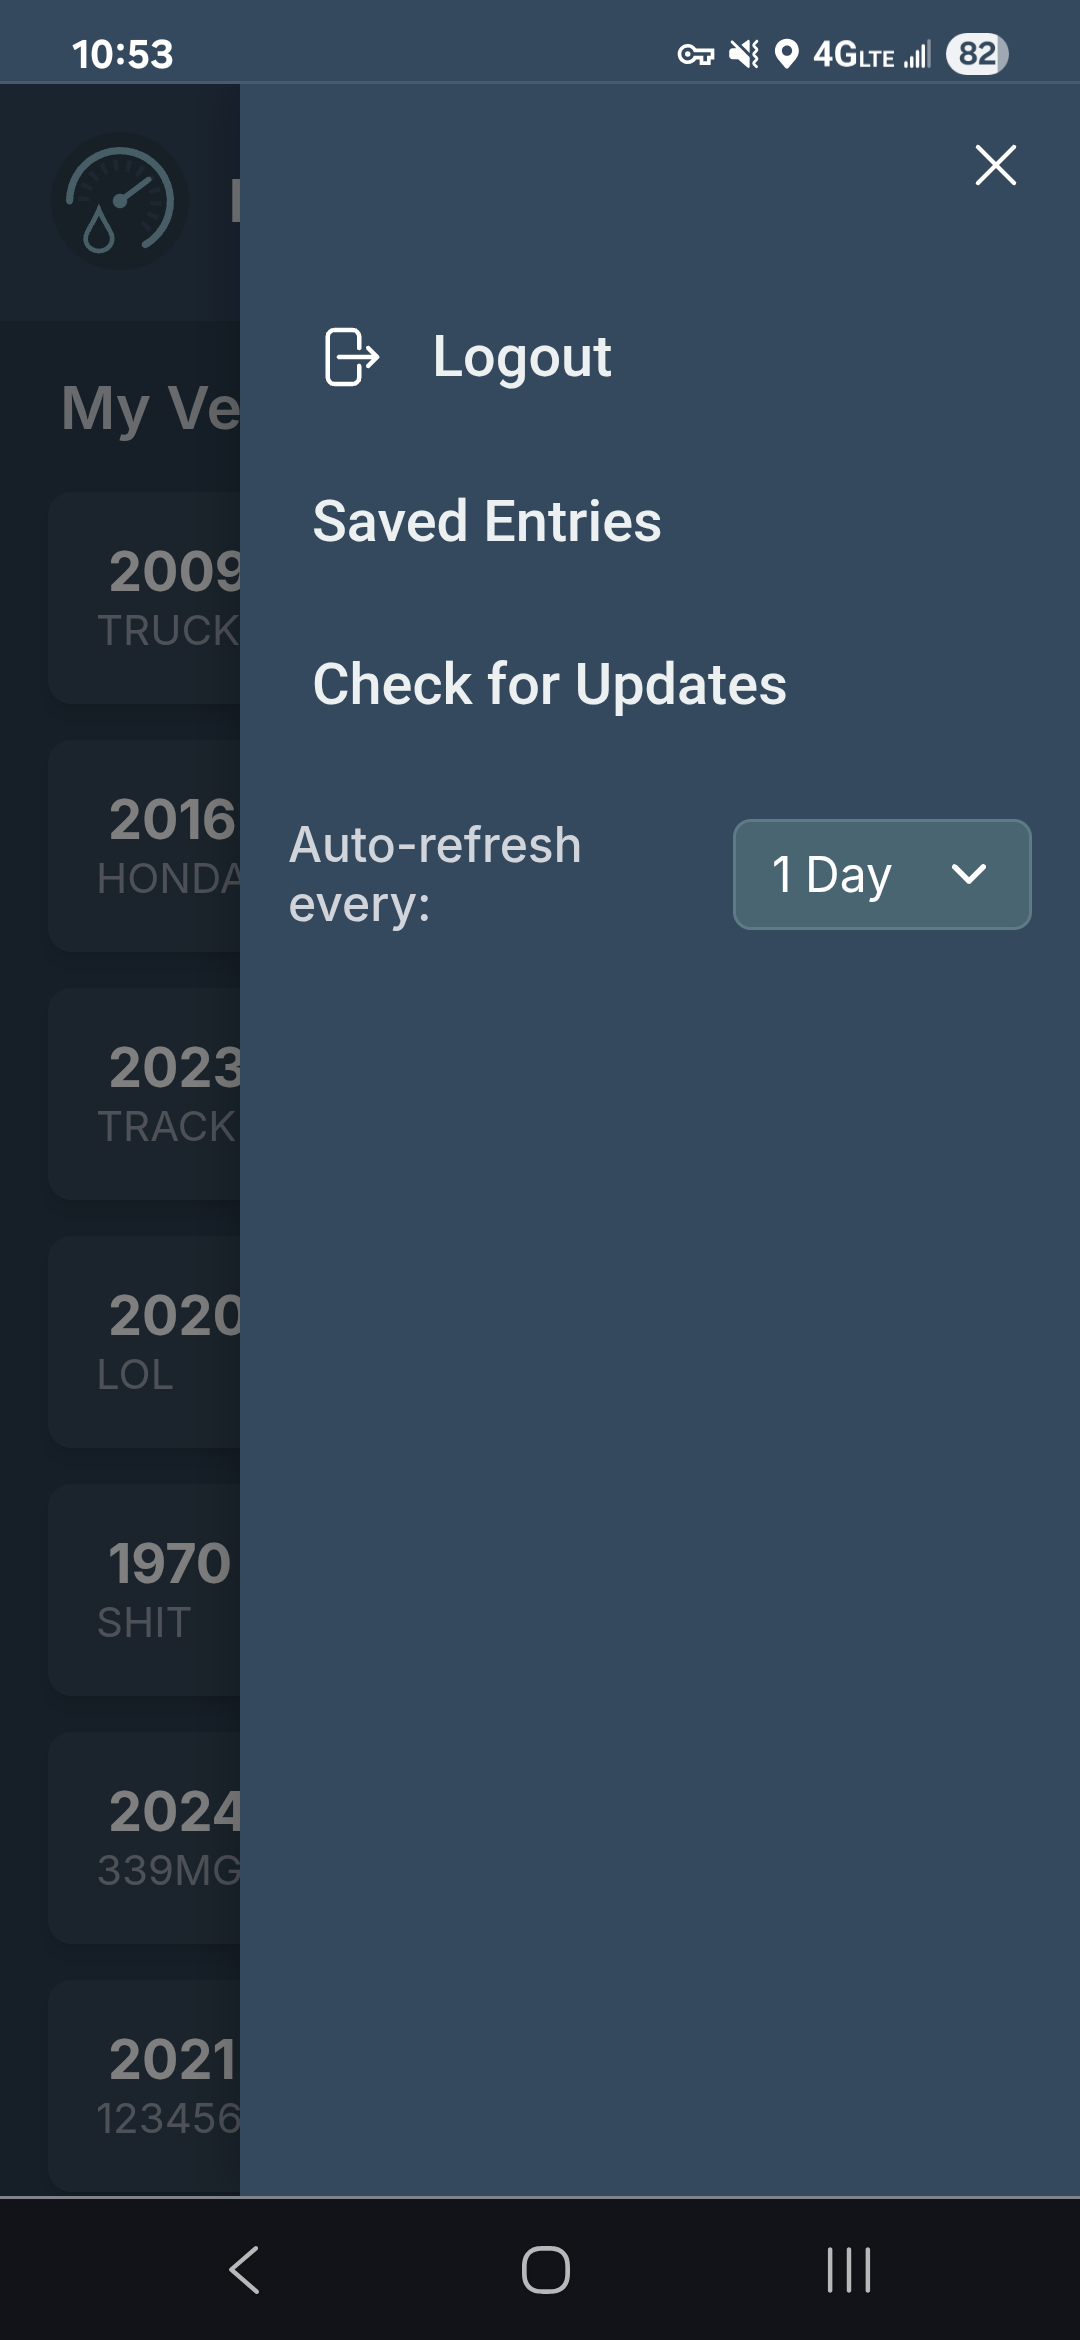
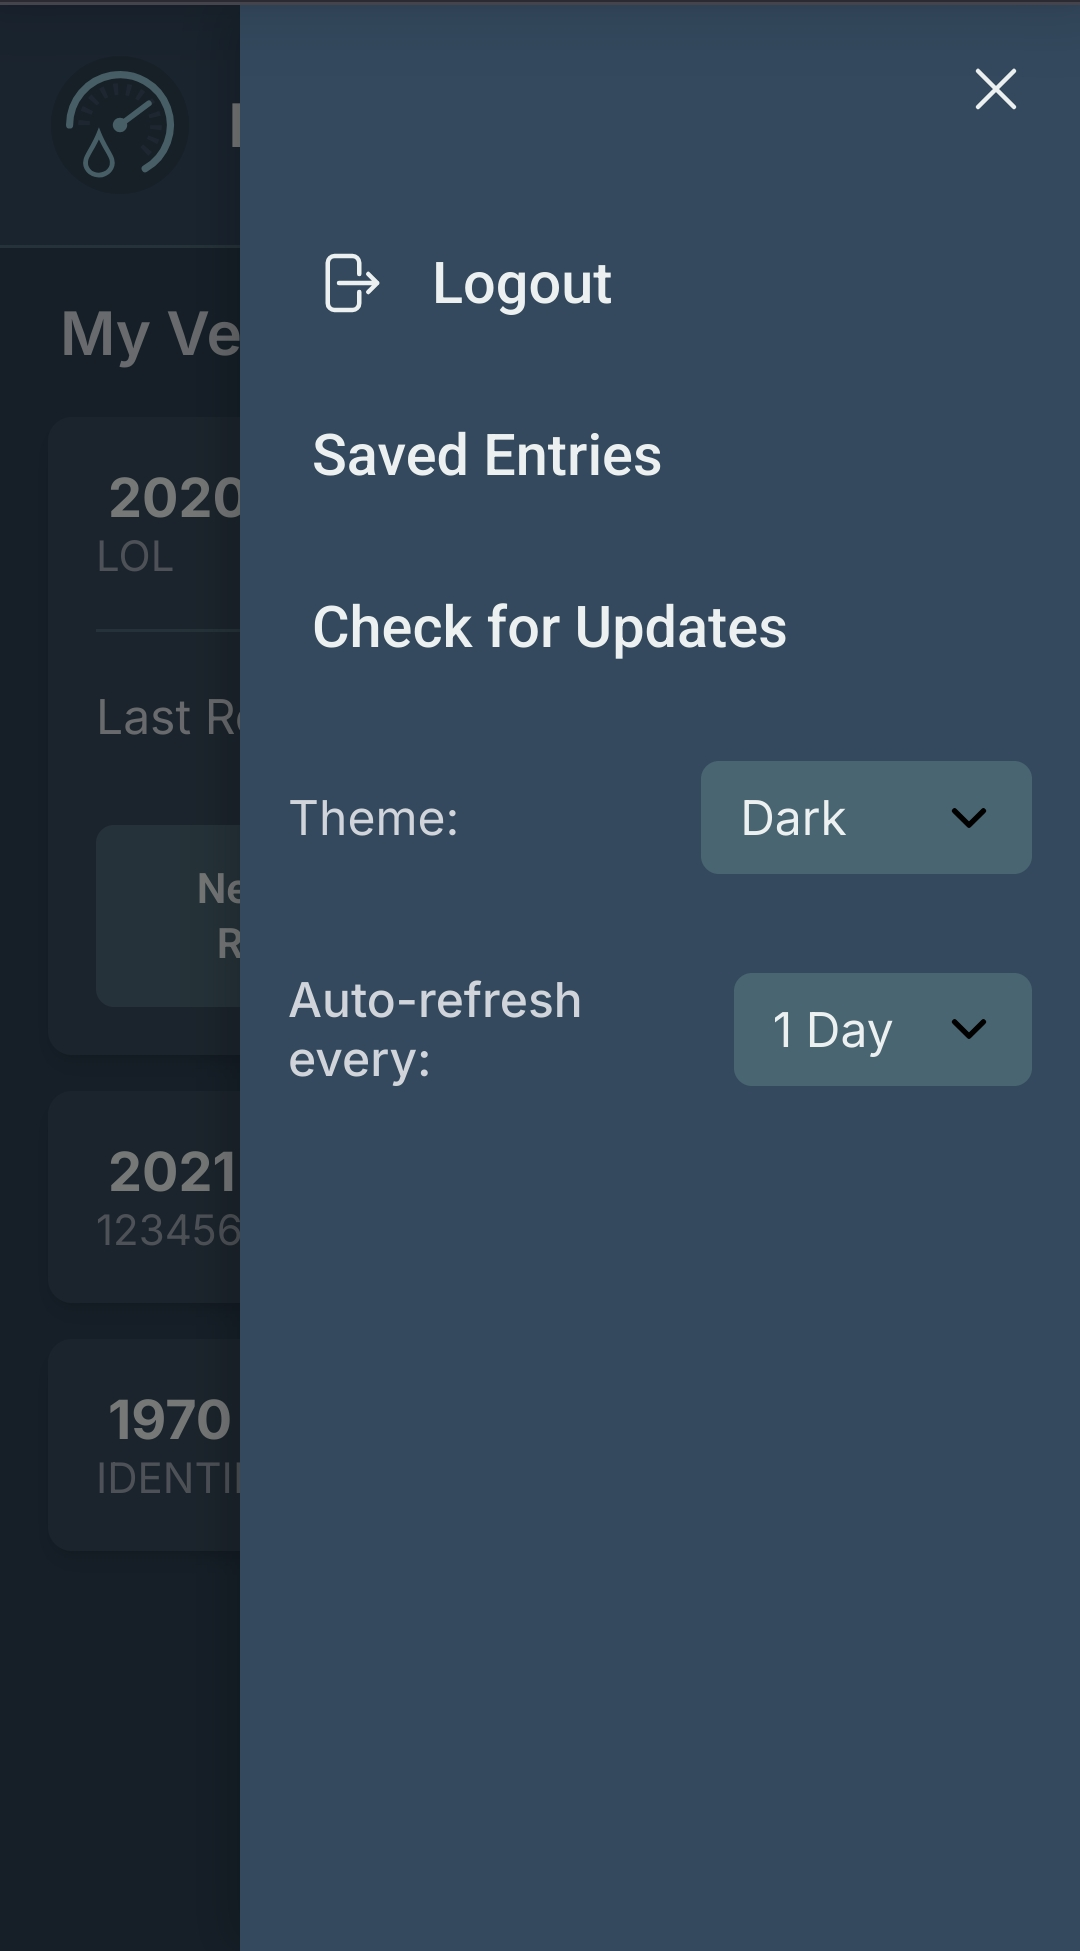
Readme and version bump

diff --git a/service-worker.js b/service-worker.js
@@ -1,4 +1,4 @@
-const CACHE_NAME = 'lubelogger-pwa-cache-v1.0.6';
+const CACHE_NAME = 'lubelogger-pwa-cache-v1.1.0';
 
 const urlsToCache = [
     './',

diff --git a/README.md b/README.md
@@ -6,7 +6,6 @@ PWA to push Fuel and Odometer Records to your LubeLogger server from your phone.
 
 This app is designed specifically for use on mobile phones, and is not optimized for desktop use. It can certainly be used via desktop, the experience may just not be great.  
   
-
 Keep in mind moving forward that, as the name suggests, I'm just a hobbyist. I'm not a professional web developer by any stretch, and I used LLMs pretty heavily in developing this. I do have a reasonable grasp on web development, but not the in-depth knowledge of CSS and HTML necessary to really make something polished and pretty.  
   
 I'm not that familiar with GitHub, either, so don't be surprised when you see a thousand commits with small changes. It was the easiest way for me to test and save files since I work from a handful of different machines.
@@ -20,11 +19,12 @@ That's pretty much it, it's a simple app designed to do a simple task easily.
 
 ## Dependencies 
 
-- This project is simply a frontend for two different components of [LubeLogger by hargata](https://github.com/hargata/lubelog). As such, this PWA requires you to have an instance of LubeLogger running somewhere in order to use.  
+- This project is a frontend for two different components of [LubeLogger by hargata](https://github.com/hargata/lubelog). As such, this PWA requires you to have an instance of LubeLogger running somewhere in order to use.  
+- If you want to self-host, you'll need git installed on your server to pull the app and any updates in the future. 
 
 ## Installation
 
-For now, this will require manual installation, but there are plans in the future to make this a little easier. I'm not sure I want to get into Docker, especially considering it's just a PWA. 
+There are a few options here, with the easiest (but potentially least secure) being to simply visit [the GitHub Page](https://just-a-hobbyist.github.io/lubelog-logger/) on your phone and login from there, or install as a PWA from there. That would allow easy updates and quick testing to see if you like the app, but it would also require you to open up CORS on your LubeLogger server to allow requests from my GitHub Page. The other option is to self-host the site on your own server, which requires using git and manually updating occasionally. I am exploring options to allow automatic updating, but haven't worked out the details yet - I'm not particularly interested in trying to learn docker or similar. Should you decide to go the self-hosted route, here are the instructions: 
   
 1. Open your teminal of choice and navigate to the location at which you want to store the files (recommend `/var/www/` for the Linux users among us).
 
@@ -47,6 +47,7 @@ server {
     # Set the default file to serve
     index index.html;
 
+    # If you're going to be hosting this from the root domain, just use "location /", but if you're going to be hosting from something like domain.com/lubelog-logger, you'll need to set location to "/lubelog-logger/"
     location / {
         try_files $uri $uri/ =404;
     }
@@ -83,37 +84,44 @@ location / {
 ```  
 8. Save the file, run `sudo nginx -t` and `sudo systemctl reload nginx` one more time to update the configuration. 
 
-9. That's it, you should be able to run the app now. Navigate to the domain you set in the `lubelog-logger.conf` file to get started.
+9. **Important!!!** Lubelogger authentication via the API currently uses Basic Auth based on RFC2617, which means that your username and password are encoded, but **not encrypted**, in *storage or transit*! To protect yourself and your computer, use a strong, unique password, and use **only** https if you want to make your instance accessible from outside your local network. To set up https, do the following if using nginx: `sudo apt install certbot`, then `sudo certbot --nginx`. This will make certbot automatically find and create all the necessary certs and changes to your nginx `.conf` file. 
+
+10. That's it, you should be able to run the app now. Navigate to the domain you set in the `lubelog-logger.conf` file to get started. If you want to install it as a PWA on your phone rather than use it as a website, you can do so using whatever method with which PWAs are normally installed on your device. For instance, Chrome and Firefox usually have an option to "Add to Home screen" or similar in the 3-dot menu on the webpage. This allows you to use and manage it like any other app on your device, so you can clear the cache, uninstall it, set permissions, etc.
 
 ## Usage
 
-Enter your domain, username, and password.  
+Enter your domain, username, and password. Domain should be an IP address only if you are using it strictly on a local network, otherwise use a domain with https. 
   
-<img src="/docs/images/login.png" alt="Login page screenshot" width="350"/>
+<img src="./docs/images/login.png" alt="Login page screenshot" width="350"/>
   
-The app will pull all vehicles associated with that username. To manually refresh the list if you want/need to, tap the refresh icon in the top right. To add a fuel or odometer record, tap one of your vehicles, then the button for whichever record you'd like to add.  
+The app will pull all vehicles associated with that username. To manually refresh the list if you want/need to, tap the refresh icon in the top right. The list can also be automatically refreshed after 1, 3, or 7 days, or never - as decided by the user in the side menu bar. Vehicles are identified by their license plate by default, but if you have enabled custom fields for the vehicle and set the identifier in LubeLogger to be a custom field (like a serial number or VIN) it will use that same identifier here. To add a fuel or odometer/hour record, tap one of your vehicles, then the button for whichever record you'd like to add.  
   
-<img src="/docs/images/vehicle-list.png" alt="Vehicle list screenshot" width="350"/>
+<img src="./docs/images/vehicle-list.png" alt="Vehicle list screenshot" width="350"/>
   
-On the record entry page, fill out all necessary fields. To see Notes and Tags section, tap the "Notes & Tags" bar. Note: tags should be space-separated, just like they are on the native interface.  
+On the record entry page, fill out all necessary fields. To see Notes and Tags section, tap the "Notes & Tags" bar. Note: tags should be space-separated, just like they are on the native interface. If you have set the vehicle to be "odometer optional" it will not be required in fuel entries, but will be required in odometer/hour entries.  
   
-<img src="docs/images/add-record.jpg" alt="Add record screenshot" width="350"/>
+<img src="./docs/images/add-record.jpg" alt="Add record screenshot" width="350"/>
 
-When you're done, click "Save Record". The app will push the data to your server. If it does not succeed, the entry will be saved and is accessible under "Saved Entries", so you can try again later. After a successful submission, you'll be notified and taken back to the main vehicle list. 
+When you're done, click "Save Record". The app will push the data to your server. If it does not succeed due to network failure, the entry will be saved and is accessible under "Saved Entries", so you can try again later. After a successful submission, you'll be notified and taken back to the main vehicle list. 
  
 Tap the "Back to Vehicles" button to go back to your vehicle list if you don't want to make an entry.  
   
-To log out, tap the hamburger icon in the top right, then tap "Logout".  
+To log out, tap the hamburger icon in the top right, then tap "Logout". The app will save the last domain entered in the domain field.  
 
-<img src="docs/images/menu-bar.png" alt="Menu bar screenshot" width="350"/> 
+<img src="./docs/images/menu-bar.png" alt="Menu bar screenshot" width="350"/> 
 
-You can also tap "Saved Entries" to view any entries which failed due to network issues. From that menu you can retry them individually or all together, or delete them entirely. 
+From this menu you can also tap "Saved Entries" to view any entries which failed due to network issues. From that page you can retry them individually or all together, or delete them entirely. 
+ 
+You can also select from a few different themes here. The default is dark as seen in the screenshots, and there is also a light mode and an "OG Dark" which attempts to emulate the colors of LubeLogger's dark theme. 
 
 This is also where you can check for updates to the app itself. The process is as follows: 
-TODO 
-1. This needs work and updating
+ 
+1. Open the side menu and tap "Check for Updates" 
+2. If there is a new version on GitHub, you will be notified that an update is available. 
+3. Navigate on your server to the location you to which you pulled the repository and run `git pull origin main` to download all the latest files.
+4. Tap "Check for Updates" again, and the app will find new files, and prompt you with a toast notification to reload the app. Tap the button to reload and the new version will be downloaded and installed.
 
-You can also set the auto-refresh interval. The default is 1 day. This is how often the app will refresh your vehicle list automatically when you open it. You may set it to 1, 3, or 7 days, or to never auto update. 
+You can also set the auto-refresh interval from the menu bar.
   
 ## Contributing 
 
